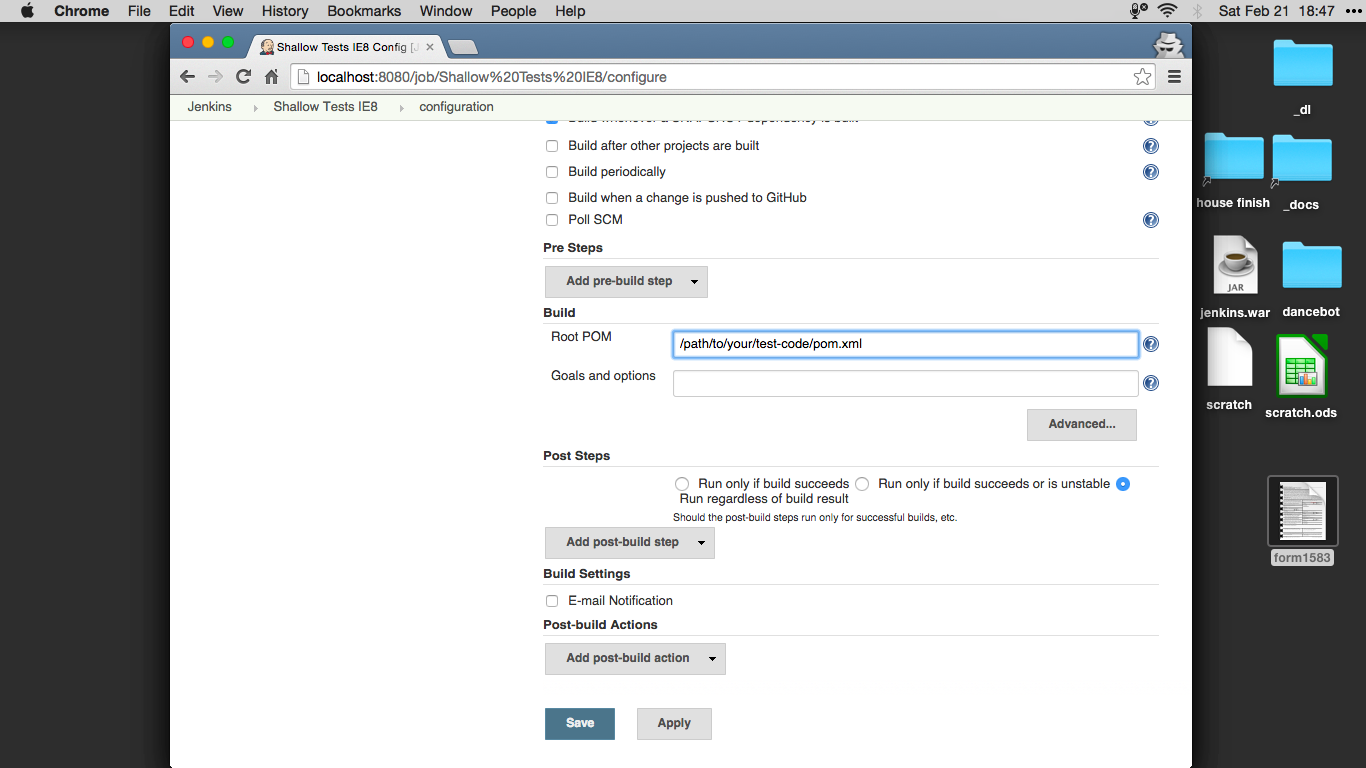
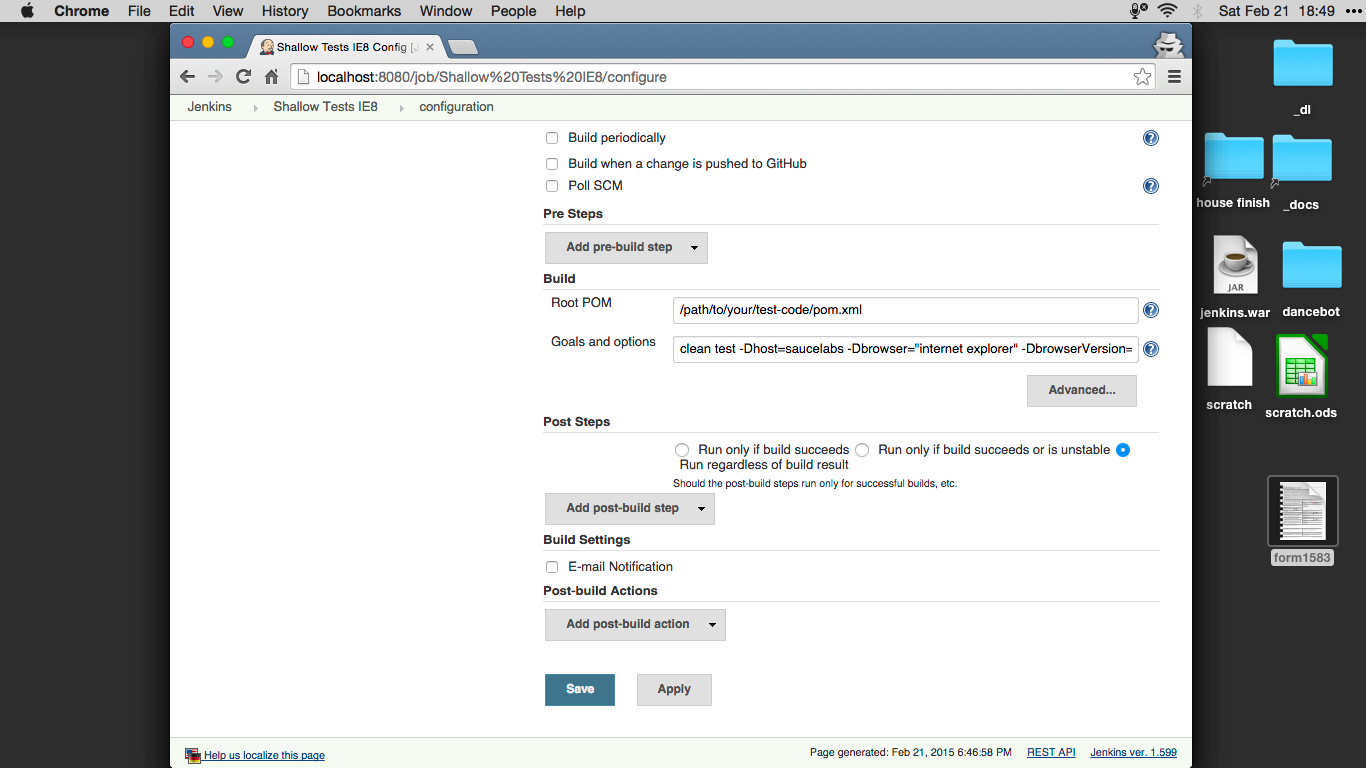
Refined screenshots and updated references in ch 16

diff --git a/content/chapters/16.md b/content/chapters/16.md
@@ -65,7 +65,7 @@ This will load a configuration screen for the Jenkins job.
 + Specify the absolute path to your `pom.xml` in `Room POM`
 + Specify the run commands you want to use in `Goals and options` (e.g., `clean test -Dhost=saucelabs -Dbrowser="internet explorer" -DbrowserVersion=8`)
 
-![Jenkins Build](img/screenshots/jenkins_job_build2.png)
+![Jenkins Build](img/screenshots/jenkins_job_build.png)
 
 __NOTE: Ideally, your test code would live in a version control system and you would configure your job (under `Source Code Management`) to pull it in and run it. To use this approach you may need to install a plugin to handle it. For more info on plugins in Jenkins, go [here](https://wiki.jenkins-ci.org/display/JENKINS/Plugins).__
 
@@ -76,7 +76,7 @@ Now we're ready to save, run our tests, and view the job result.
 
 When the build completes, the result will be listed on the job's home screen. In this case, the job passed.
 
-![Jenkins Job Result From First Run](img/screenshots/jenkins_job_run_passed)
+![Jenkins Job Result From First Run](img/screenshots/jenkins_job_run_passed.png)
 
 __NOTE: If you had a different result, you can drill into a job to see what was happening behind the scenes. To do that click on the build you want from `Build History` and select `Console Output`. This output will be your best bet in tracking down an unexpected result.__
 
@@ -106,7 +106,7 @@ This test mimics our `failure` test by visiting the login page and providing inv
 
 Now when we run our Jenkins job again, it will fail.
 
-![Jenkins Job Screen With Failure](img/screenshots/jenkins_job_run_failed)
+![Jenkins Job Screen With Failure](img/screenshots/jenkins_job_run_failed.png)
 
 When we click on `Latest Test Result` we can see the test that failed (e.g., `tests.TestLogin.forcedFailure`).
 
@@ -118,7 +118,7 @@ And if we click on the failed test, we can see the failure message along with a 
 
 When we follow the URL to the Sauce Labs job we're able to see what happened during the test run (e.g., we can replay a video of the test, see what Selenium commands were issued, etc.).
 
-![Sauce Labs Job](img/screenshots/sauce3.png)
+![Sauce Labs Job](img/screenshots/sauce_job.png)
 
 ## Notifications
 
